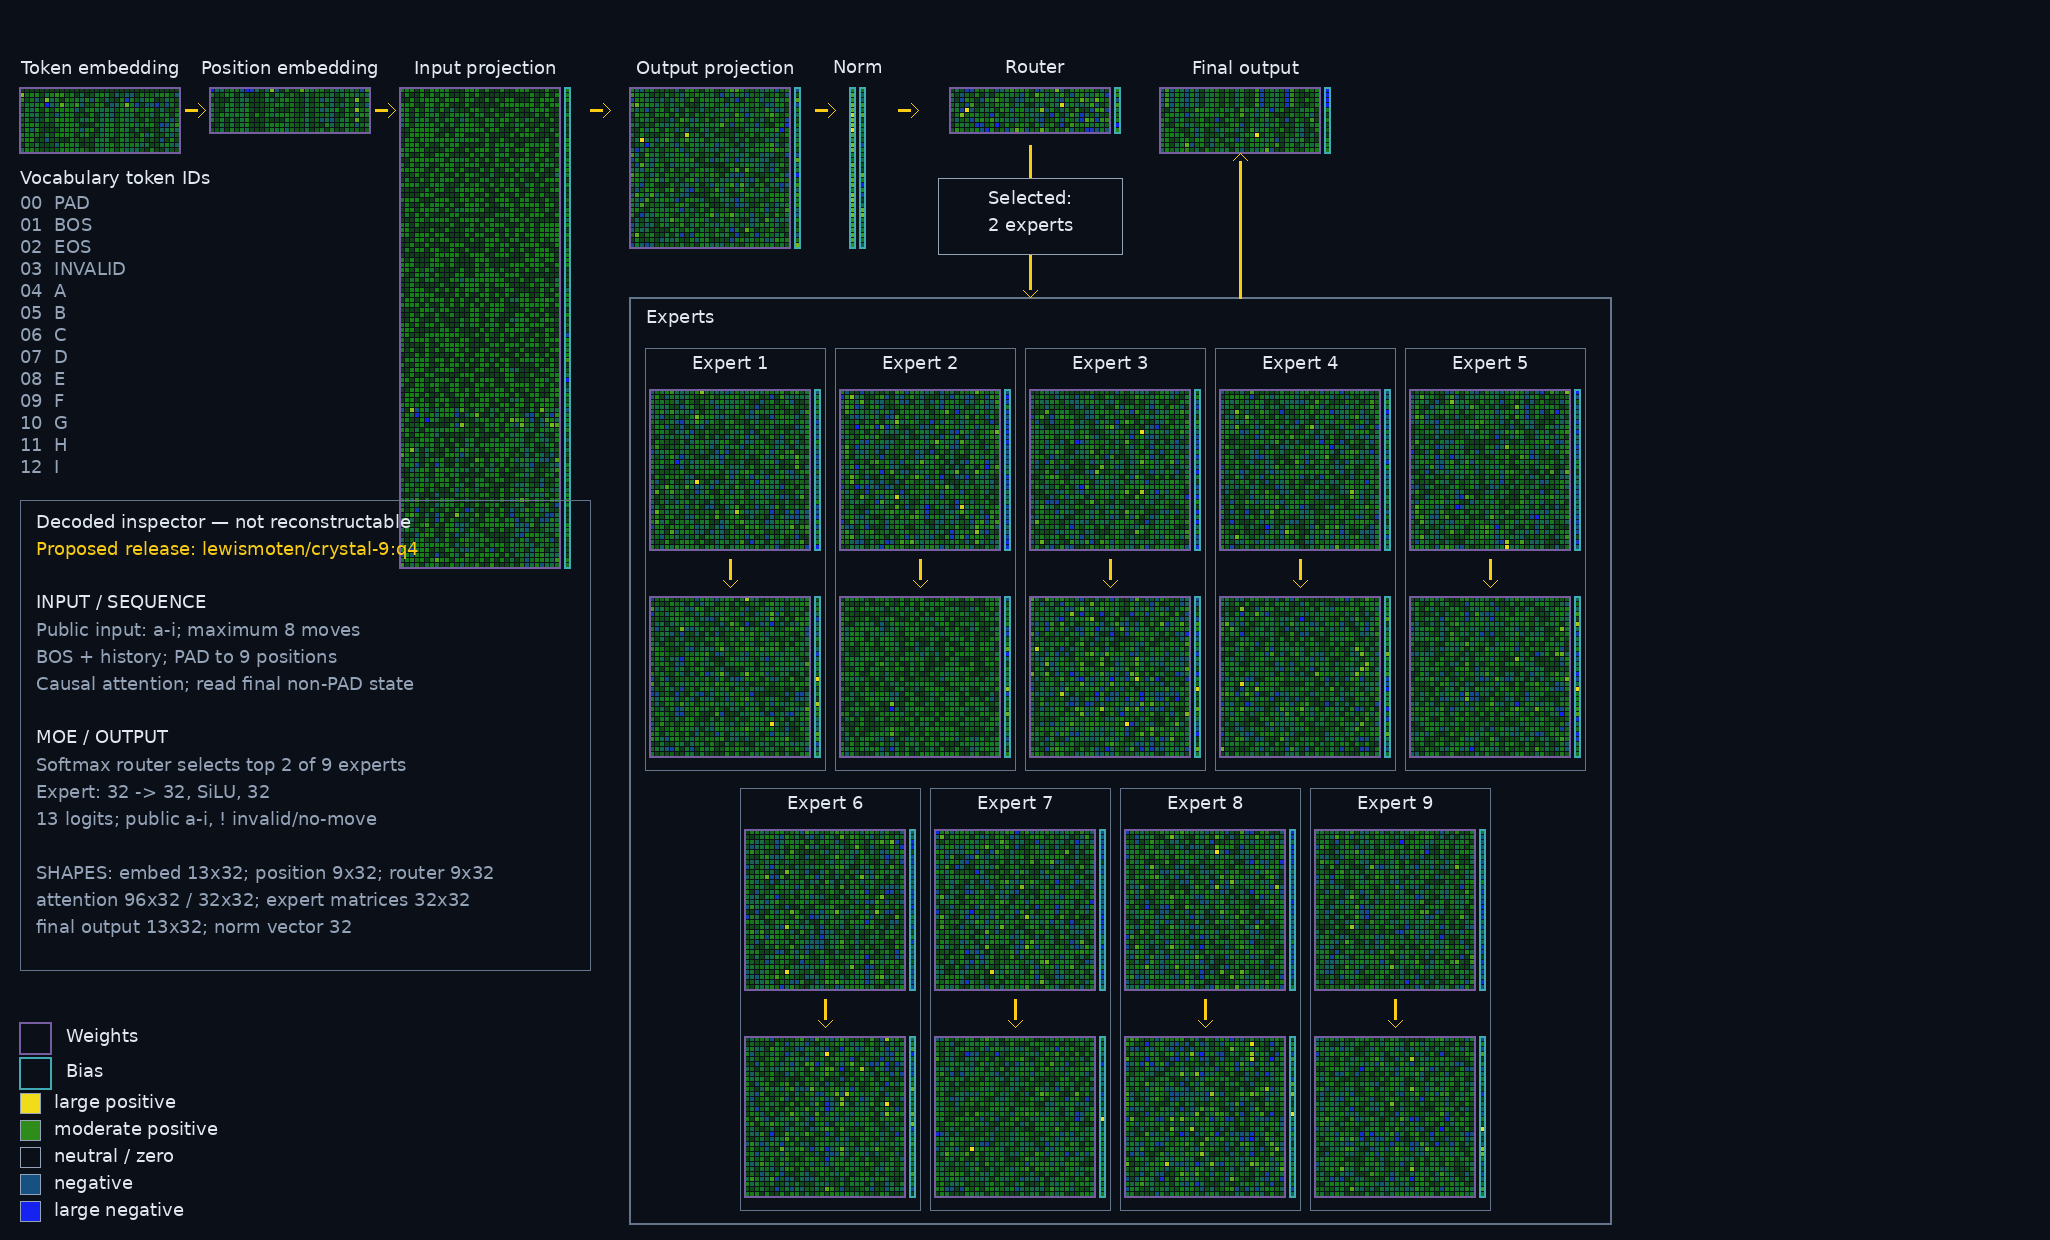
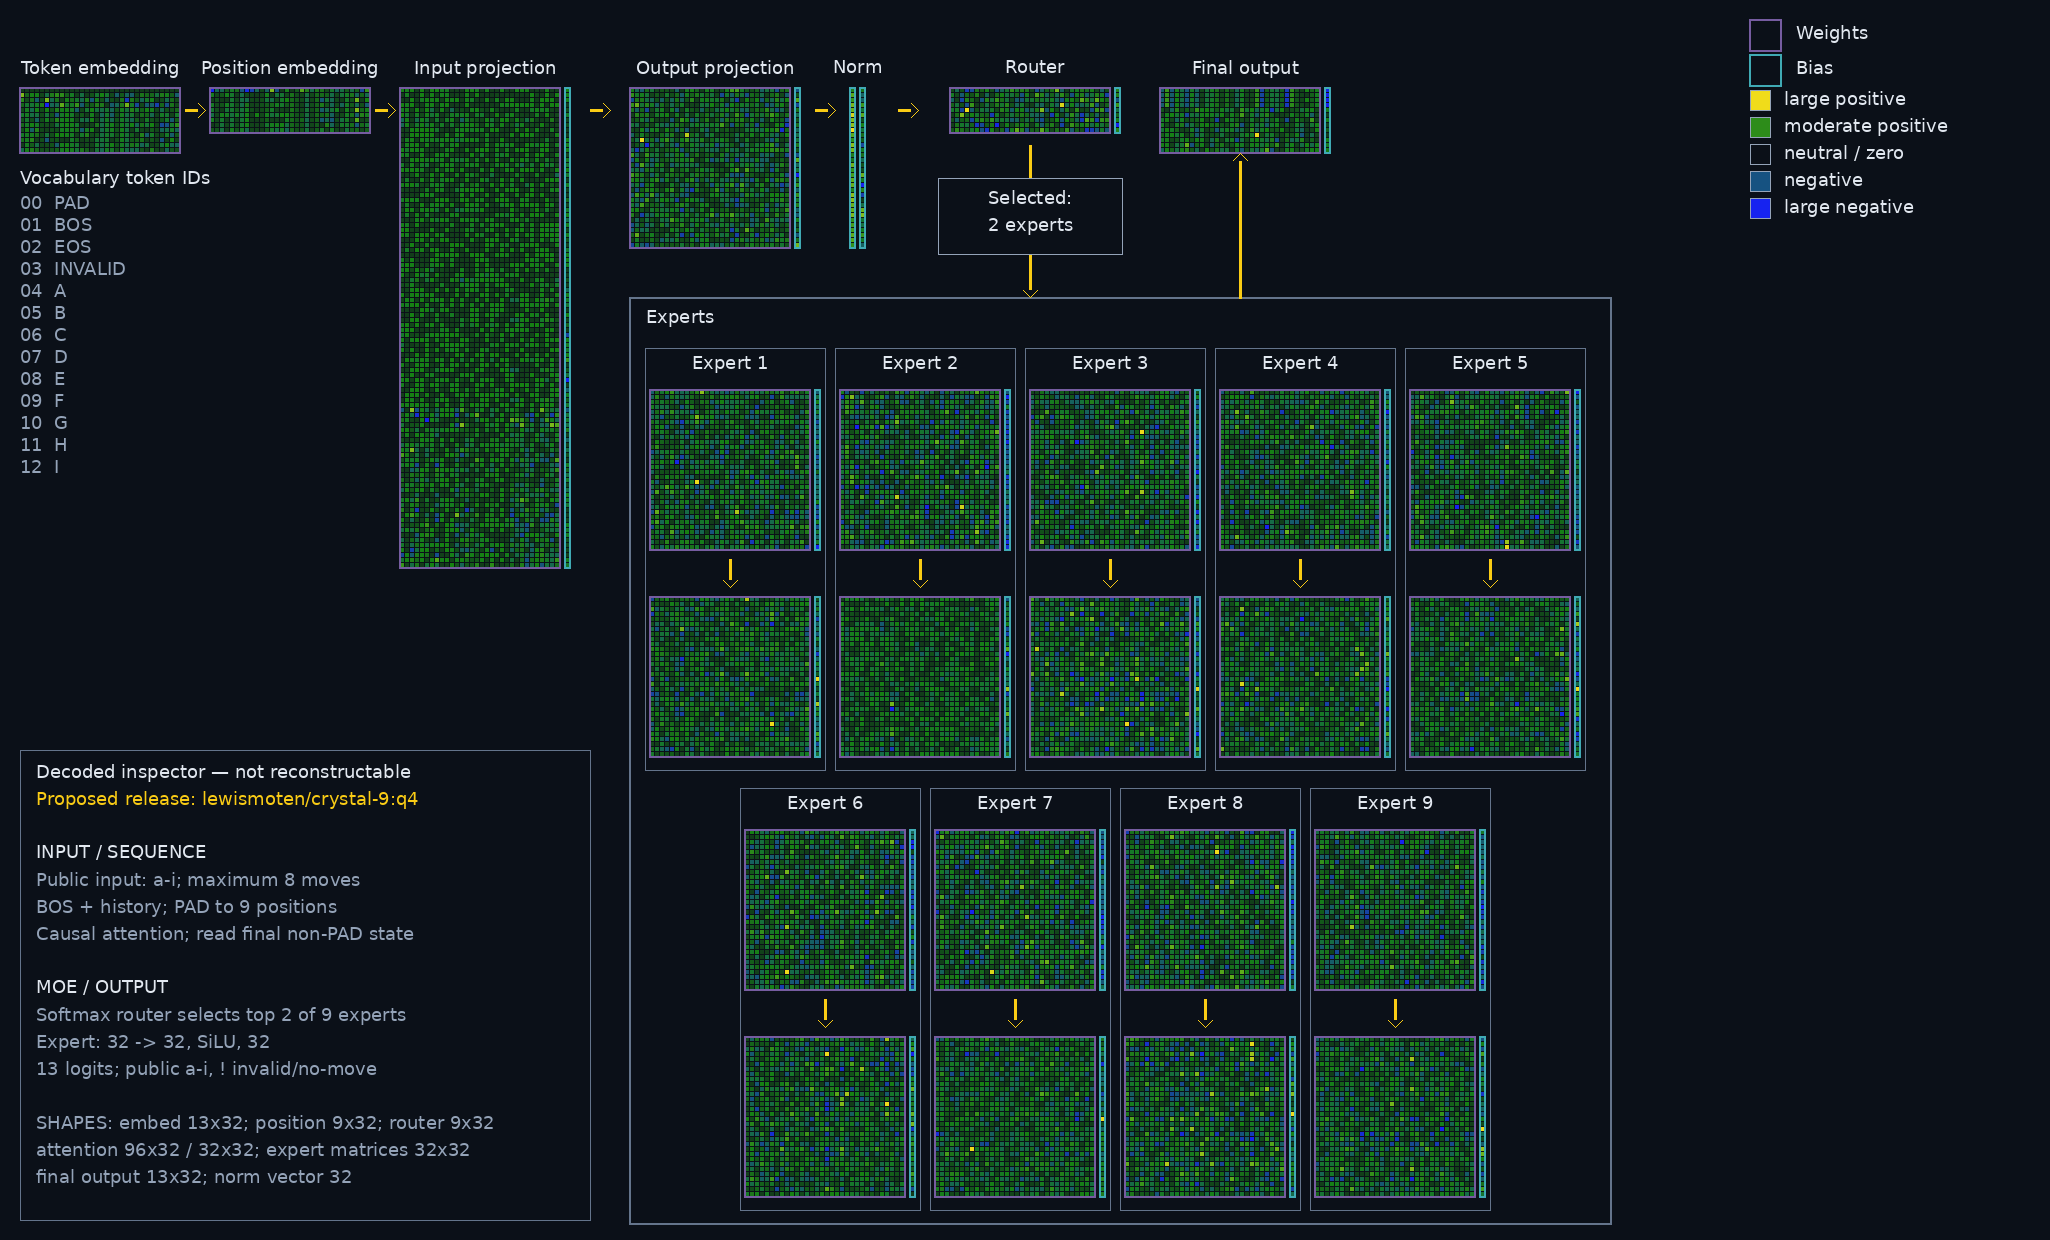
Reposition tensor inspector contract and legend

Changed region(s): [[0.0, 0.5823, 0.2498, 0.9806], [0.0, 0.3984, 0.2185, 0.5516], [0.8429, 0.0, 0.9366, 0.1839]]

diff --git a/tools/tensor_inspector.py b/tools/tensor_inspector.py
@@ -222,7 +222,7 @@ def render_checkpoint_inspector(source: Path) -> tuple[bytes, dict[str, object]]
     _render_pair(rgb, width, state, "router.weight", "router.bias", "Router", 950, top_y)
     _render_pair(rgb, width, state, "output.weight", "output.bias", "Final output", 1160, top_y)
     _render_vocabulary(rgb, width, 20, 170)
-    _render_execution_contract(rgb, width, 20, 500)
+    _render_execution_contract(rgb, width, 20, 750)
 
     # The position table is an explicit branch: small flow arrows enter and leave its matrix at the shared tensor centerline.
     _arrow(rgb, width, 185, flow_y, 205, flow_y)
@@ -258,25 +258,25 @@ def render_checkpoint_inspector(source: Path) -> tuple[bytes, dict[str, object]]
     output_return_x, output_matrix_bottom = 1240, 153
     _arrow(rgb, width, output_return_x, expert_top, output_return_x, output_matrix_bottom)
 
-    # Lower-left legend keeps border and per-value color semantics visible without competing with the column headers.
-    legend_x = 20
-    _rectangle(rgb, width, legend_x, 1023, 30, 30, _WEIGHT_BORDER, 2)
-    _text(rgb, width, legend_x + 46, 1028, "Weights", _LABEL)
-    _rectangle(rgb, width, legend_x, 1058, 30, 30, _BIAS_BORDER, 2)
-    _text(rgb, width, legend_x + 46, 1063, "Bias", _LABEL)
+    # Top-right legend uses unused canvas space, leaving the full lower-left lane for the execution contract.
+    legend_x = 1750
+    _rectangle(rgb, width, legend_x, 20, 30, 30, _WEIGHT_BORDER, 2)
+    _text(rgb, width, legend_x + 46, 25, "Weights", _LABEL)
+    _rectangle(rgb, width, legend_x, 55, 30, 30, _BIAS_BORDER, 2)
+    _text(rgb, width, legend_x + 46, 60, "Bias", _LABEL)
     for y, color, label in (
-        (1093, _color(1.0), "large positive"),
-        (1120, _color(0.5), "moderate positive"),
-        (1147, (11, 16, 24), "neutral / zero"),
-        (1174, _color(-0.5), "negative"),
-        (1201, _color(-1.0), "large negative"),
+        (90, _color(1.0), "large positive"),
+        (117, _color(0.5), "moderate positive"),
+        (144, (11, 16, 24), "neutral / zero"),
+        (171, _color(-0.5), "negative"),
+        (198, _color(-1.0), "large negative"),
     ):
         _fill_rectangle(rgb, width, legend_x, y, 20, 20, color)
         _rectangle(rgb, width, legend_x, y, 20, 20, _MUTED, 1)
         _text(rgb, width, legend_x + 34, y + 1, label, _LABEL)
 
     metadata = {
-        "format": "crystal-9-tensor-inspector-v19", "source": source.name,
+        "format": "crystal-9-tensor-inspector-v20", "source": source.name,
         "source_sha256": hashlib.sha256(source.read_bytes()).hexdigest(), "tensor_count": len(state),
         "representation": "decoded inspector; not reconstructable",
         "proposed_deployment_tag": "lewismoten/crystal-9:q4",
@@ -288,7 +288,8 @@ def render_checkpoint_inspector(source: Path) -> tuple[bytes, dict[str, object]]
             "expert": "32 -> 32 SiLU -> 32",
             "public_output": "a-i; ! is invalid/no-move sentinel",
         },
-        "normalization": "per-tensor symmetric max-absolute", "layout": "architecture-flow-v19",
+        "normalization": "per-tensor symmetric max-absolute", "layout": "architecture-flow-v20",
+        "legend_location": "top-right", "execution_contract_panel": {"location": "bottom-left", "bounds": [20, 750, 570, 470]},
         "bias_alignment": "vertical output-row axis", "sections": ["inputs", "attention", "norm_router", "experts", "output"],
         "legend": {"WEIGHTS": "matrix; rows are output features", "BIAS": "bias column; one value per output row", "B": "bias column; one value per output row"},
         "expert_layout": "five Expert boxes over four Expert boxes; each contains its first and second layer",

diff --git a/tests/test_tensor_inspector.py b/tests/test_tensor_inspector.py
@@ -15,7 +15,9 @@ def test_checkpoint_inspector_renders_actual_tensor_inventory_as_png():
     assert metadata["tensors"]["attention.in_proj_weight"]["shape"] == [96, 32]
     assert metadata["tensors"]["experts.0.0.weight"]["shape"] == [32, 32]
     assert metadata["normalization"] == "per-tensor symmetric max-absolute"
-    assert metadata["layout"] == "architecture-flow-v19"
+    assert metadata["layout"] == "architecture-flow-v20"
+    assert metadata["legend_location"] == "top-right"
+    assert metadata["execution_contract_panel"] == {"location": "bottom-left", "bounds": [20, 750, 570, 470]}
     assert metadata["bias_alignment"] == "vertical output-row axis"
     assert metadata["sections"][-2:] == ["experts", "output"]
     assert metadata["legend"]["B"] == "bias column; one value per output row"

diff --git a/tools/export_tensor_inspectors.py b/tools/export_tensor_inspectors.py
@@ -31,7 +31,7 @@ def main() -> None:
             "tensor_count": metadata["tensor_count"], "width": metadata["width"], "height": metadata["height"],
             "normalization": metadata["normalization"], "derived": True,
         })
-    (OUTPUT.parent / "inspectors.json").write_text(json.dumps({"format": "crystal-9-tensor-inspector-v19", "inspectors": inspectors}, indent=2) + "\n")
+    (OUTPUT.parent / "inspectors.json").write_text(json.dumps({"format": "crystal-9-tensor-inspector-v20", "inspectors": inspectors}, indent=2) + "\n")
 
 
 if __name__ == "__main__":
